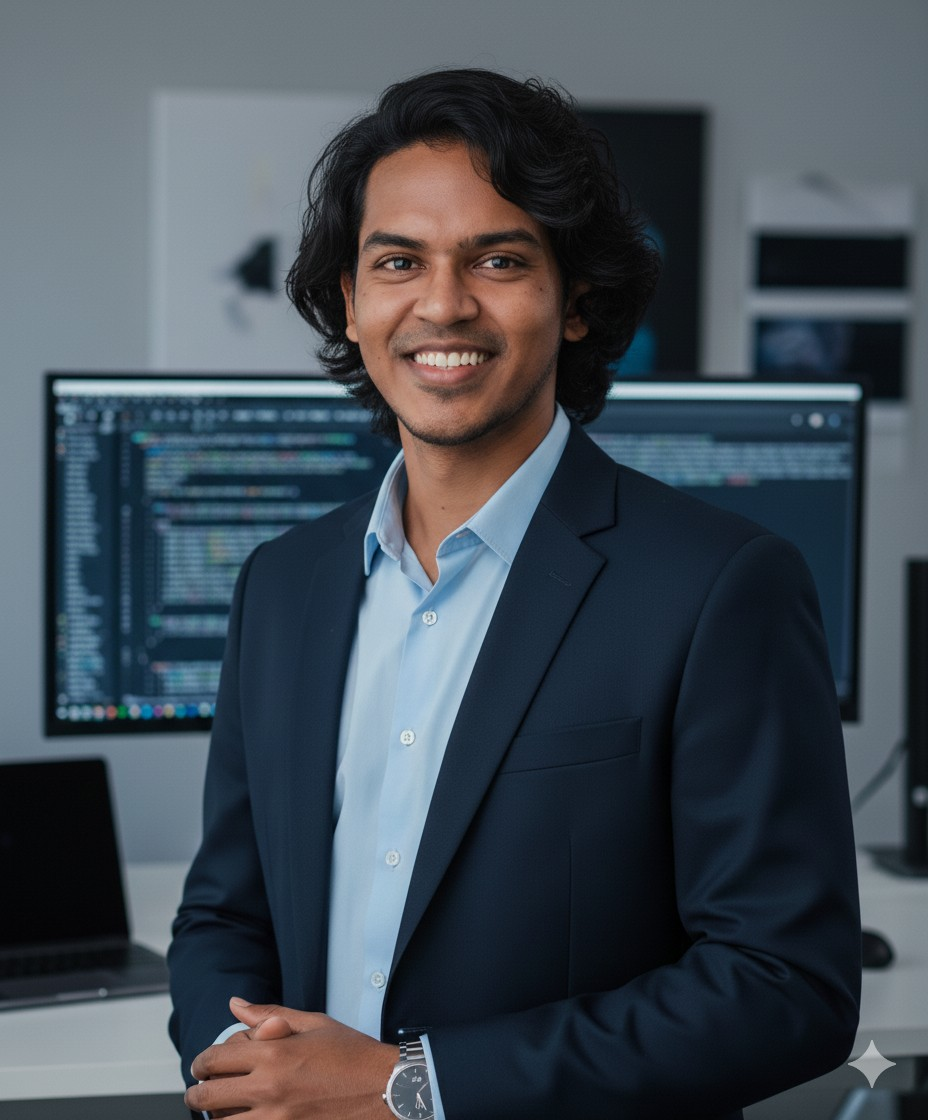
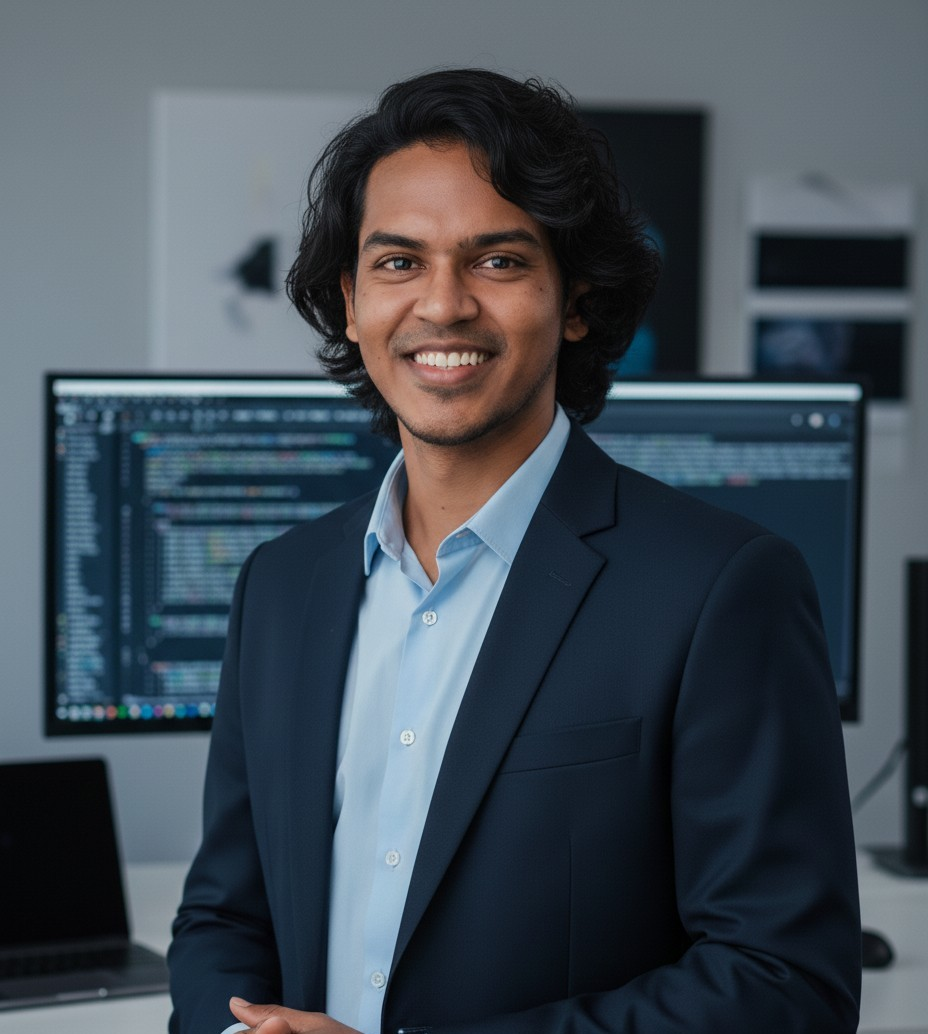
New Build

diff --git a/overview/page.py b/overview/page.py
@@ -2,10 +2,14 @@ import streamlit as st
 
 from heuristic1.loaders.owid import load as load_owid
 from heuristic2.loaders.ndgain import load as load_ndgain
+from heuristic5.loaders.data_loader import load_provider_finance_data
 
 # ── DATA LOADING ──────────────────────────────────────────────────────────────
 owid_data = load_owid()
 ndgain_data = load_ndgain()
+finance_data = load_provider_finance_data()
+
+CLIMATE_COL = "climate_usd_thousand"
 
 # ── COMPUTED KPIs ─────────────────────────────────────────────────────────────
 
@@ -18,6 +22,17 @@ def get_most_vulnerable(year: int):
     """Ruben's KPI — most vulnerable nation by ND-GAIN score."""
     snapshot = ndgain_data[ndgain_data["year"] == year]
     return snapshot.sort_values("vulnerability", ascending=False).iloc[0]
+
+def get_climate_finance_kpi() -> tuple:
+    """
+    Nengjie's KPI — total climate finance committed in 2023 (most recent
+    complete year) with delta vs 2022.
+    Returns (value_str, delta_str)
+    """
+    total_2023 = finance_data[finance_data["year"] == 2023][CLIMATE_COL].sum() / 1e6
+    total_2022 = finance_data[finance_data["year"] == 2022][CLIMATE_COL].sum() / 1e6
+    delta = total_2023 - total_2022
+    return f"${total_2023:.1f}B", f"{'+' if delta >= 0 else ''}{delta:.1f}B vs 2022"
 
 
 # ═════════════════════════════════════════════════════════════════════════════
@@ -101,11 +116,14 @@ with kpi4:
 
 with kpi5:
     # Nengjie — Climate Finance
-    # TODO: Replace with computed metric from Nengjie's dataset
+    # Fixed at 2023 — most recent complete year in Nengjie's dataset.
+    # Independent of year selector (finance data runs 2013–2024, not 1995–2018).
+    finance_value, finance_delta = get_climate_finance_kpi()
     st.metric(
-        label="Finance Gap",
-        value="—",
-        help="Nengjie's metric — to be added."
+        label="Climate Finance (2023)",
+        value=finance_value,
+        delta=finance_delta,
+        help="Total climate-related development finance committed globally in 2023."
     )
 
 st.divider()
@@ -115,4 +133,4 @@ st.divider()
 # To be decided collectively once all sub-heuristic charts are complete.
 
 st.subheader("Global Overview")
-st.info("Group-level overview chart (to be confirmed once all sub-heuristics are complete).")
+st.info("Group-level overview chart — to be confirmed once all sub-heuristics are complete.")